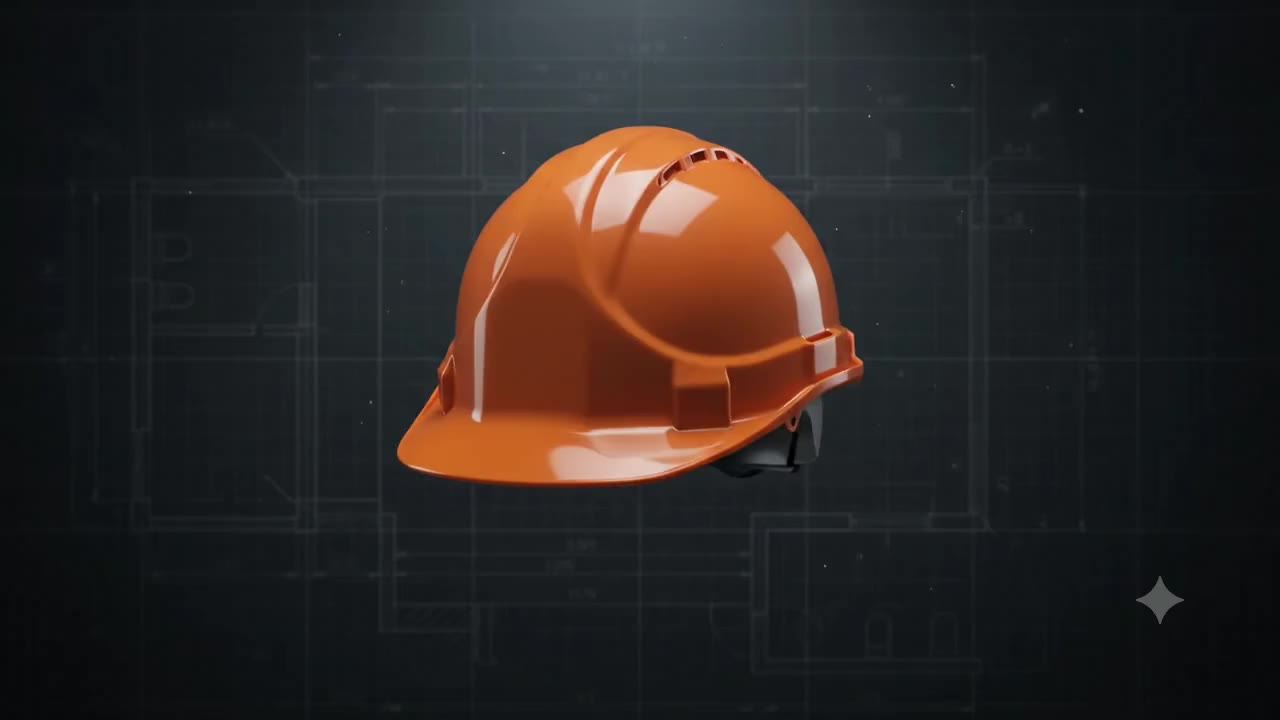
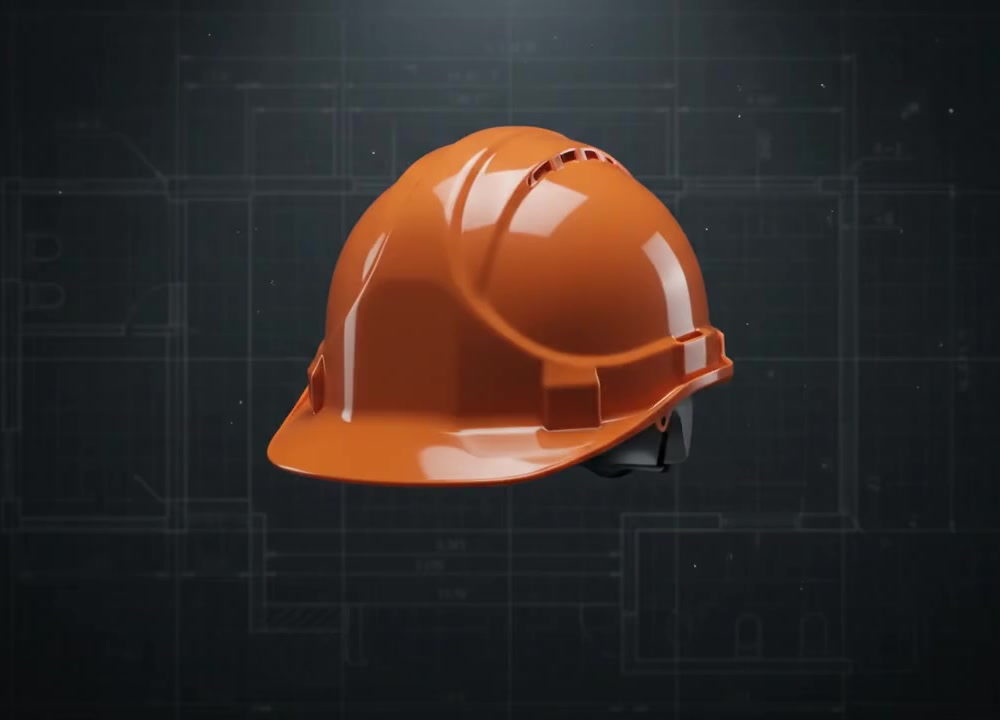
Widen the scroll-video runway to 600vh with a half-fill-then-hold mapping and restart the dev server with a cleared Vite cache

Changed region(s): [[0.248, 0.1528, 0.744, 0.6722], [0.868, 0.7944, 0.93, 0.8556]]

diff --git a/apps/showcase/src/pages/HomePage.tsx b/apps/showcase/src/pages/HomePage.tsx
@@ -86,7 +86,7 @@ function CtaOutline({ to, children }: { to: string; children: React.ReactNode })
 // Nothing renders until ENABLED flips true, so no empty black runway ships.
 const SCRUB_ENABLED = true;
 
-const scrubLine = "max-w-3xl text-balance font-display text-4xl font-semibold uppercase leading-[0.95] tracking-[-0.03em] sm:text-6xl";
+const scrubLine = "max-w-2xl text-balance font-display text-3xl font-semibold uppercase leading-[1.05] tracking-[-0.02em] sm:text-4xl md:text-5xl";
 
 function CinematicScrub() {
   if (!SCRUB_ENABLED) return null;
@@ -94,24 +94,39 @@ function CinematicScrub() {
     <ScrollVideoHero
       src="/hero-scrub.mp4"
       poster="/hero-scrub.jpg"
-      // Crop ~15% off the bottom (anchored top) to hide the generator ✦ watermark
-      // baked into the lower-right of the source clip.
-      videoClassName="absolute left-0 top-0 h-[118%] w-full object-cover object-top"
+      // Long runway so momentum scroll can't blow past before the meter fills.
+      heightVh={600}
+      // Anchor to the BOTTOM so the meter/loading bar baked into the clip stays
+      // visible (object-cover crops any excess from the top). The generator ✦
+      // watermark is already cropped out of the source (crop=1100 + rescale).
+      videoClassName="absolute inset-0 h-full w-full object-cover object-bottom"
       captions={[
         <p key="c1" className={scrubLine}>
-          Every wallet signs whatever the dApp puts in front of you.
+          Every wallet signs whatever the dApp shows you.
         </p>,
         <p key="c2" className={scrubLine}>
-          Baret <span className="text-primary">doesn't.</span>
+          A <span className="text-primary">Confirm</span> button. Then the chain decides.
         </p>,
-        <div key="c3" className="flex flex-col items-center gap-4">
-          <BaretMark size={56} />
+        <p key="c3" className={scrubLine}>
+          Baret <span className="text-primary">reads it first.</span>
+        </p>,
+        <p key="c4" className={scrubLine}>
+          Simulated. Decoded. 25+ detectors.
+        </p>,
+        <p key="c5" className={scrubLine}>
+          Rolling caps. Per-site policy. On-chain guard.
+        </p>,
+        <p key="c6" className={scrubLine}>
+          Safe, or <span className="text-primary">blocked</span> — before your keys move.
+        </p>,
+        <div key="c7" className="flex flex-col items-center gap-3">
+          <BaretMark size={52} />
           <span className="font-mono text-xs uppercase tracking-[0.3em] text-white/60">Introducing</span>
-          <span className="font-display text-6xl font-semibold uppercase tracking-tight sm:text-8xl">
+          <span className="font-display text-5xl font-semibold uppercase tracking-tight sm:text-7xl">
             Baret<span className="text-primary">.</span>
           </span>
-          <span className="max-w-md text-balance text-base text-white/70 sm:text-lg">
-            The hard hat for your Stellar wallet — every transaction simulated, explained, and blocked when dangerous.
+          <span className="max-w-sm text-balance text-sm text-white/70 sm:text-base">
+            The hard hat for your Stellar wallet.
           </span>
         </div>,
       ]}

diff --git a/packages/ui/src/motion/ScrollVideoHero.tsx b/packages/ui/src/motion/ScrollVideoHero.tsx
@@ -88,9 +88,16 @@ export function ScrollVideoHero({
     const tick = () => {
       const dur = v.duration || 0;
       if (dur > 0) {
-        const p = Math.min(1, Math.max(0, scrollYProgress.get()));
+        const raw = Math.min(1, Math.max(0, scrollYProgress.get()));
+        // Complete the clip by HALF the runway and HOLD the final frame for the
+        // whole second half — the meter is 100% long before the section unpins,
+        // so even a fast/momentum scroll can't reach the next section while the
+        // bar is still filling.
+        const p = Math.min(1, raw / 0.5);
         const target = Math.min(p * dur, dur - 0.033);
-        current += (target - current) * 0.14;
+        // Tight tracking (all-keyframe already smooths seeks) so the bar keeps
+        // up with the scroll even on a fast flick — no lag at the transition.
+        current += (target - current) * 0.32;
         if (v.readyState >= 1 && Math.abs(current - v.currentTime) > 0.006) {
           try {
             v.currentTime = current;
@@ -144,8 +151,8 @@ export function ScrollVideoHero({
           onLoadedData={onLoadedData}
           className={videoClassName ?? "absolute inset-0 h-full w-full object-cover"}
         />
-        {/* readability gradients over the footage */}
-        <div aria-hidden className="absolute inset-0 bg-gradient-to-t from-black/85 via-black/20 to-black/50" />
+        {/* light readability wash — keeps captions legible without dulling the footage */}
+        <div aria-hidden className="absolute inset-0 bg-gradient-to-t from-black/60 via-transparent to-black/25" />
 
         {captions.map((c, i) => (
           <Caption key={i} progress={scrollYProgress} index={i} total={captions.length}>
@@ -168,8 +175,10 @@ function Caption({
   total: number;
   children: ReactNode;
 }) {
-  const lo = 0.03;
-  const hi = 0.97;
+  // Captions live within the scrub window (video completes ~0.9); the last
+  // one lands on the held final frame.
+  const lo = 0.04;
+  const hi = 0.92;
   const span = (hi - lo) / Math.max(1, total);
   const start = lo + index * span;
   const end = start + span;